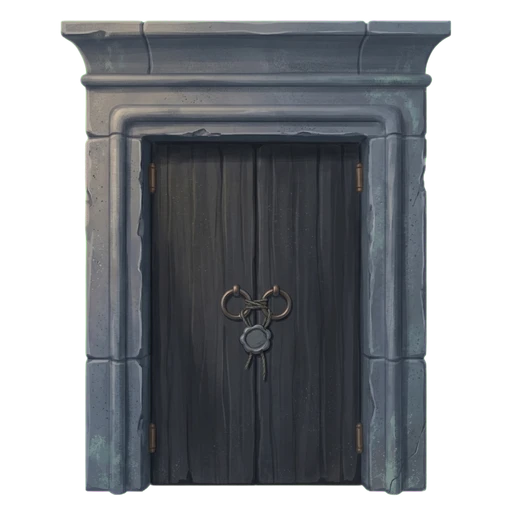
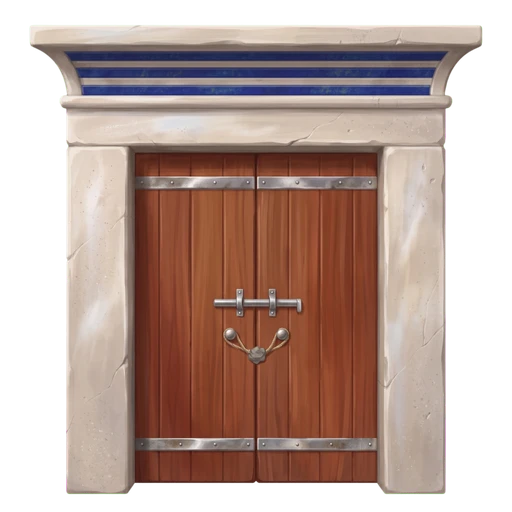
art: priest's ward door painted

diff --git a/docs/instructions/repaint-queue.md b/docs/instructions/repaint-queue.md
@@ -424,29 +424,6 @@ The last nine are the house's own kinds, new with its activities ([themed-rooms.
 banquet table and the bed are two cells across, so their frame is landscape three by two; the harp and the
 potted tree stand a cell taller, so theirs is portrait two by five.
 
-## Ward doors — one
-
-The door the gate popup shows behind a ward gate. The prompt names what an Egyptian door is made of and says
-what it is not: the first nobleman's door came back European, raised panels, iron bolts and red wax.
-
-### `door/ward-expert` — the high priest's ward door
-
-1. `art/masters/surfaces/expert-wall-face.webp` — the priest's wall face, for the brushwork and the colours only
-
-```
-FRAME: square, 1:1. The door stands alone, centred and seen straight on, filling about 85% of the height. Do not crop it and do not re-compose it.
-
-STYLE: hand-painted digital art, matte: soft brush texture, grit and speckle, NO outlines anywhere, every edge is a change of value between painted areas. Even, soft, cool clear light from the upper left. No glow cast on anything, no light pool, no cast shadow, no ground, no floor, no steps. No text, no letters, no hieroglyphs, no figures, no border.
-
-THE ATTACHED IMAGE IS A WALL, already painted in the finished style of this set. Take ONLY its brushwork and its colour range. Nothing of the wall itself appears in the picture.
-
-SUBJECT: An ancient Egyptian temple's sanctuary door, belonging to a high priest. A double-leaf door of polished red-brown CEDAR: the wood is the door, smooth fine-grained vertical planks, warm against the cool stone around it. Silver #9fb3c8 is only an ACCENT on it: one narrow band of beaten silver across the top and the bottom of each leaf, fixed with small round silver nail heads, and nothing more. NOT a metal door, NOT sheet metal, NOT steel, NOT a vault, no rivets down the seams. NO raised panels, NO iron, NO ring handles, NO hinges showing, NO European hardware. The doorway is a frame of pale polished alabaster #b4bdc5, cloudy and faintly veined, with a cavetto cornice over the lintel, the cornice's hollow inlaid with three bands of lapis blue #2c4f8c. A single silver bolt slides across both leaves through two silver staples. A linen cord runs between two small silver knobs, one on each leaf, sealed with a lump of grey Nile clay pressed flat with a seal, NOT red wax. Clean, calm and serene: nothing worn, nothing broken, nothing living. The door is shut.
-
-BACKGROUND: a flat, solid #ff00ff magenta (red 255 green 0 blue 255) that fills the whole square canvas to all four edges, right up to the door's frame. No wall, no gradient, no shadow.
-```
-
-**Import:** `yarn import-camp <file> --out-dir=src/assets/doors --name=ward-expert --size=512`
-
 ## Priest — fifteen
 
 His CHAMBER props, and none of them existed as a model until now: his rank had nothing but the veil and
